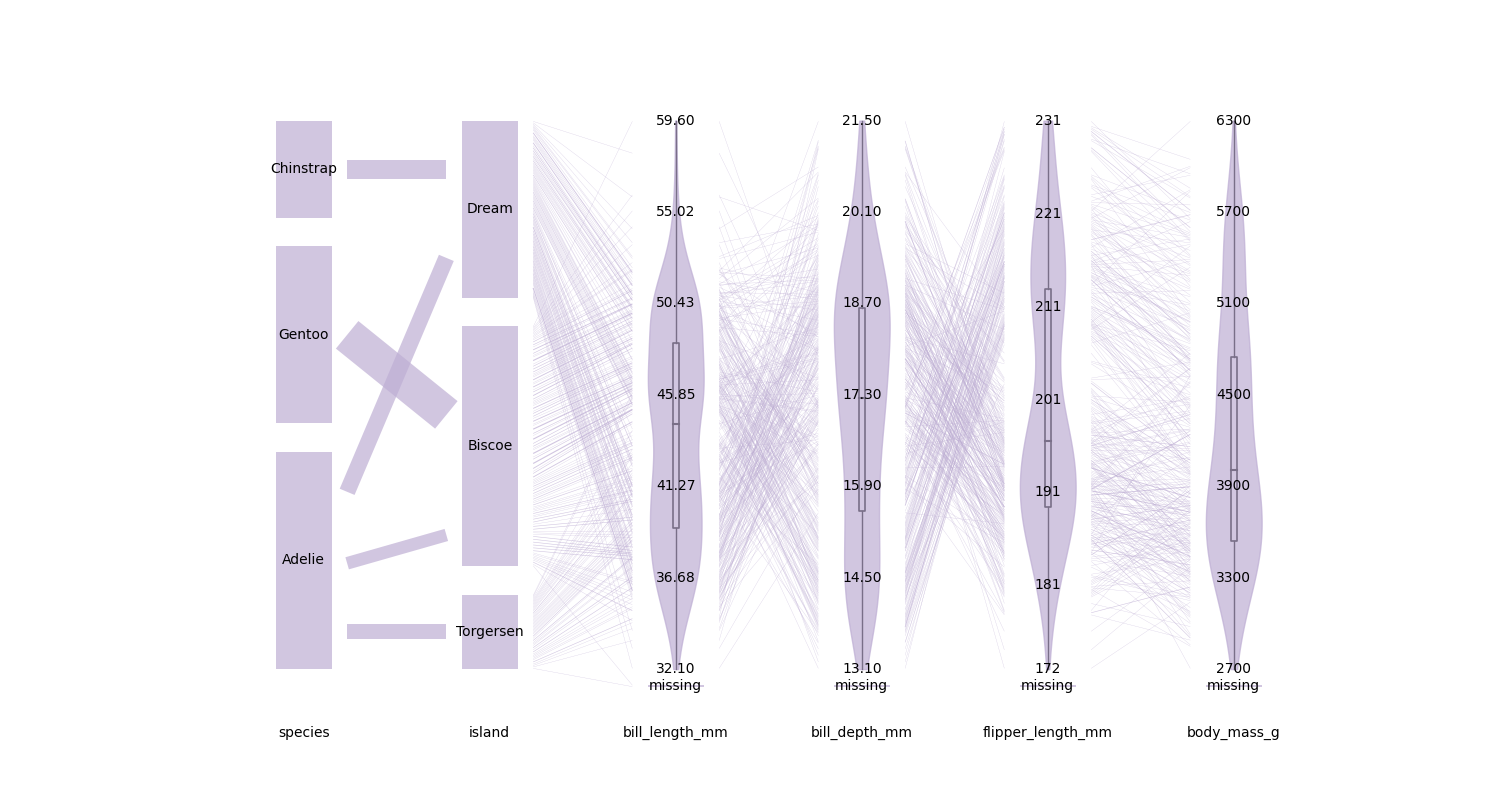
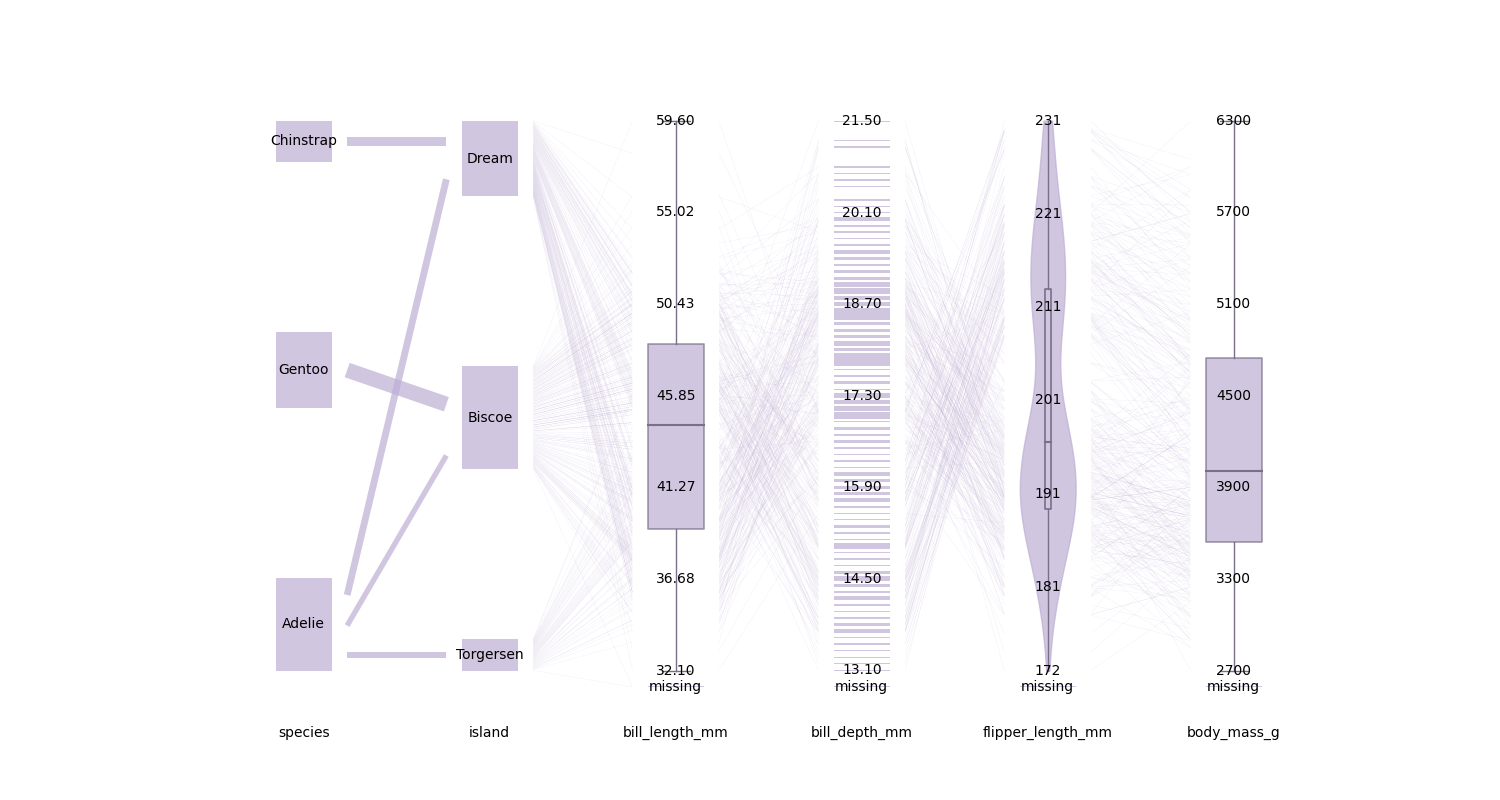
changes to gallery

diff --git a/examples/gallery/02_penguins_numerical_no_highlight.py b/examples/gallery/02_penguins_numerical_no_highlight.py
@@ -1,0 +1,39 @@
+"""
+Boxplots, violin plots, lumpy rugplots
+======================================================
+
+Display numerical variables using boxplots, violin plots, or lumpy rugplots. Also missing values.
+"""
+
+from _gallery_utils import data_path, gallery_image_path
+
+import hammock_plot
+import pandas as pd
+
+
+df = pd.read_csv(data_path("data_penguins.csv"))
+
+hammock = hammock_plot.Hammock(data_df=df)
+hammock.plot(
+    var=[
+        "species",
+        "island",
+        "bill_length_mm",
+        "bill_depth_mm",
+        "flipper_length_mm",
+        "body_mass_g",
+    ],
+    missing=True,
+    uni_vfill=.4,
+    connector_fraction=.2,
+    display_type={
+        "bill_length_mm":"box", 
+        "bill_depth_mm": "rugplot", 
+        "flipper_length_mm": "violin", 
+        "body_mass_g":"box"
+    },
+    width=15,
+    height=8,
+    save_path=gallery_image_path("penguins_numerical_no_highlight.png"),
+)
+

diff --git a/examples/gallery/04_penguins_mixed_displays.py b/examples/gallery/04_penguins_mixed_displays.py
@@ -1,8 +1,8 @@
 """
-Penguins Mixed Displays
-=======================
+Highlighting and stacked barcharts
+==================================
 
-Combine bar charts and box plots in one hammock plot.
+Large categorical bars combine to stacked barcharts. Here, we specified a different color for the the connectors.
 """
 
 from _gallery_utils import data_path, gallery_image_path
@@ -26,12 +26,11 @@ hammock.plot(
     hi_var="island",
     hi_value=["Torgersen", "Biscoe"],
     missing=True,
-    uni_vfill=0.7,
-    uni_hfill=0.99,
+    uni_vfill=0.99,
+    uni_hfill=0.3,
     connector_fraction=0.1,
+    connector_color="grey",
     display_type={
-        "species": "bar chart",
-        "island": "bar chart",
         "bill_length_mm": "box",
         "bill_depth_mm": "box",
         "flipper_length_mm": "box",
@@ -41,3 +40,4 @@ hammock.plot(
     height=8,
     save_path=gallery_image_path("penguins_mixed_displays.png"),
 )
+

diff --git a/examples/gallery/03_shakespeare_box.py b/examples/gallery/03_shakespeare_box.py
@@ -1,8 +1,8 @@
 """
-Display numerical var as Box Plot
-==================================
+Specify order of categories
+===========================
 
-Display type of numerical var, specify order of categorical var, put a subset of variables on the same scale.
+Mixed numerical/categorical vars, specify order of categories, put a subset of variables on the same scale, missing values (Shakespeare data).
 """
 
 from _gallery_utils import data_path, gallery_image_path
@@ -25,9 +25,7 @@ hammock.plot(
     same_scale=["speaker1", "speaker2"],
     missing=True,
     uni_vfill=.4,
+    connector_fraction=.2,
     display_type={"characters": "box"},
     save_path=gallery_image_path("shakespeare_box.png"),
 )
-
-import matplotlib.pyplot as plt
-plt.show()

diff --git a/examples/gallery/20_penguins_unibars_only.py b/examples/gallery/20_penguins_unibars_only.py
@@ -1,6 +1,6 @@
 """
-Marginal displays (Unibars) Only
-================================
+Marginal displays Only
+=======================
 
 Remove connectors to focus on the marginal displays. Also large bars.
 """